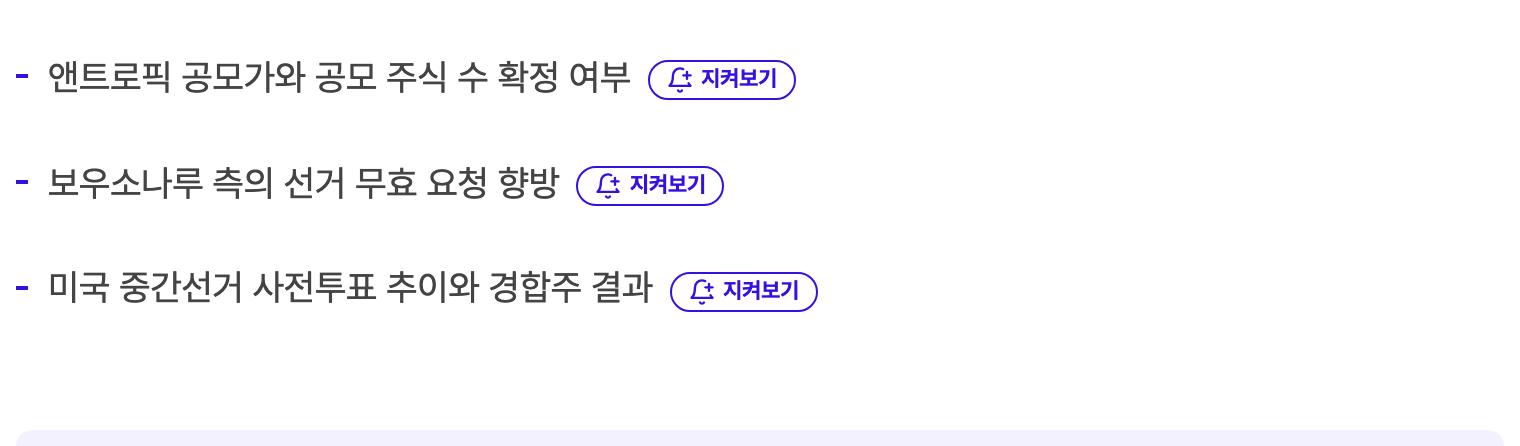
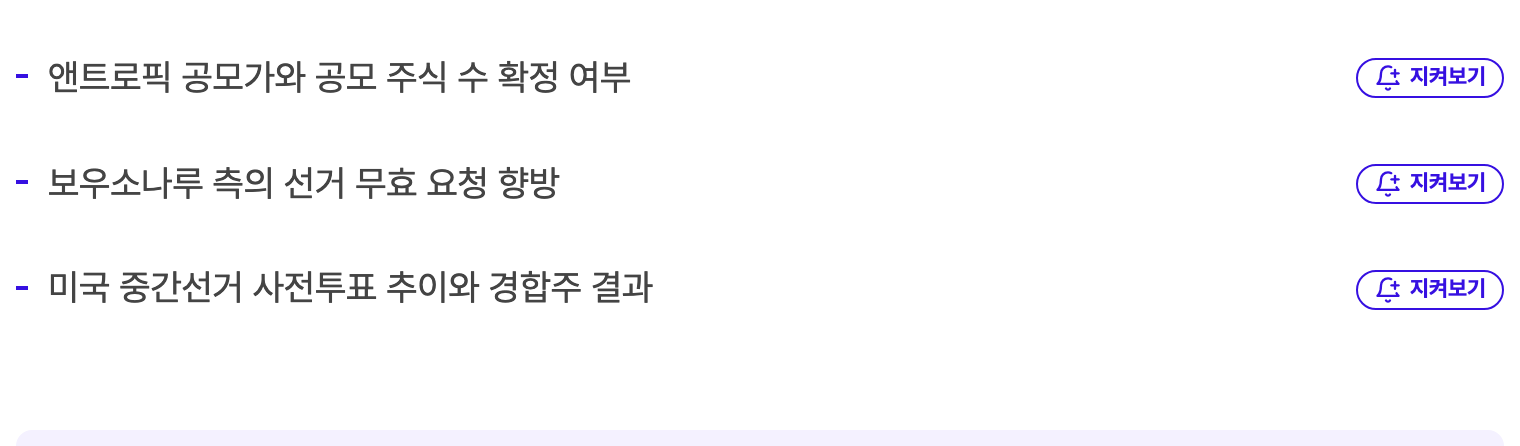
style: 따라오는 제목 칸을 공통 Button으로, 뒤로 가기와 같은 모양(가리키면 포인트색 테두리 · 글자 · 연한 포인트색 바탕) · 관전 포인트 지켜보기 단추를 오른쪽 끝으로

diff --git a/apps/web/src/components/common/BackBar.tsx b/apps/web/src/components/common/BackBar.tsx
@@ -2,6 +2,7 @@
 
 import styled from 'styled-components';
 import { IoArrowBack } from 'react-icons/io5';
+import Button from '@/components/common/Button';
 import MoveButton from '@/components/common/MoveButton';
 import { useHeader } from '@/hooks/useHeader';
 
@@ -29,9 +30,15 @@ export default function BackBar({ text, onClick, title, showTitle = false, onTit
 			{title &&
 				(onTitleClick ? (
 					// 숨어 있을 때(showTitle 아님)는 visibility: hidden이라 누를 수도, 탭으로 갈 수도 없다
-					<button type="button" className="bar-title" onClick={onTitleClick} aria-label={`제목으로 이동: ${title}`}>
-						<span>{title}</span>
-					</button>
+					<Button
+						type="button"
+						scheme="monoOutline"
+						className="bar-title"
+						onClick={onTitleClick}
+						aria-label={`제목으로 이동: ${title}`}
+					>
+						{title}
+					</Button>
 				) : (
 					<p className="bar-title" aria-hidden>
 						<span>{title}</span>
@@ -65,19 +72,13 @@ const BackBarStyled = styled.div<{ $folded: boolean; $withTitle: boolean }>`
 		font-weight: ${({ theme }) => theme.fontWeight.semiBold};
 		color: ${({ theme }) => theme.color.text};
 
-		/* 단추일 때 (onTitleClick) */
+		/* 단추일 때 (onTitleClick): 공통 Button. 긴 제목은 줄여 쓴다 */
 		&:is(button) {
-			margin: 0;
-			cursor: pointer;
-
-			&:hover {
-				border-color: ${({ theme }) => theme.color.lightGrey};
-			}
-
-			&:focus-visible {
-				outline: 2px solid ${({ theme }) => theme.color.primary};
-				outline-offset: 2px;
-			}
+			flex-shrink: 1;
+			justify-content: flex-start;
+			/* 공통 Button은 height: fit-content라, 옆 뒤로 가기 단추와 같은 높이로 늘린다 */
+			align-self: stretch;
+			height: auto;
 		}
 
 		span {
@@ -92,7 +93,10 @@ const BackBarStyled = styled.div<{ $folded: boolean; $withTitle: boolean }>`
 		transition:
 			opacity 0.2s ease,
 			transform 0.2s ease,
-			visibility 0.2s;
+			visibility 0.2s,
+			color 0.15s ease,
+			background 0.15s ease,
+			border-color 0.15s ease;
 	}
 
 	/* 테두리는 옆의 제목 칸과 같은 연한 색 (버튼 기본 monoOutline은 진한 회색) */
@@ -102,10 +106,21 @@ const BackBarStyled = styled.div<{ $folded: boolean; $withTitle: boolean }>`
 		gap: ${({ $folded }) => ($folded ? '0' : '0.5rem')};
 		transition:
 			gap 0.3s ease,
-			padding 0.3s ease;
+			padding 0.3s ease,
+			color 0.15s ease,
+			background 0.15s ease,
+			border-color 0.15s ease;
+	}
 
-		&:hover {
-			border-color: ${({ theme }) => theme.color.lightGrey};
+	/* 뒤로 가기 · 제목 단추는 같은 모양: 가리키면 포인트색 테두리 · 글자 · 아이콘에 연한 포인트색 바탕 */
+	.back:hover:not(:disabled),
+	button.bar-title:hover:not(:disabled) {
+		border-color: ${({ theme }) => theme.color.primary};
+		background: ${({ theme }) => theme.color.tertiary};
+		color: ${({ theme }) => theme.color.primary};
+
+		svg {
+			color: ${({ theme }) => theme.color.primary};
 		}
 	}
 

diff --git a/apps/web/src/app/articles/detail/[slug]/_components/content/ArticleContent.tsx b/apps/web/src/app/articles/detail/[slug]/_components/content/ArticleContent.tsx
@@ -497,6 +497,10 @@ const NewsletterContentStyled = styled.article`
 
 			li {
 				position: relative;
+				/* 글은 왼쪽, 지켜보기 단추는 오른쪽 끝 (글이 길면 단추는 그 줄 끝에서 세로 가운데) */
+				display: flex;
+				align-items: center;
+				gap: 0.75rem;
 				padding: 0.5rem 0 0.5rem 1rem;
 				line-height: 1.6;
 				color: ${({ theme }) => theme.color.mediumGrey};
@@ -514,8 +518,8 @@ const NewsletterContentStyled = styled.article`
 				/* FollowLayer가 만드는 자리: 관전 포인트 글 끝에 이어서 */
 				.watch-slot {
 					display: inline-flex;
-					margin: 0 0 0 0.5rem;
-					vertical-align: middle;
+					flex-shrink: 0;
+					margin: 0 0 0 auto;
 				}
 			}
 		}
